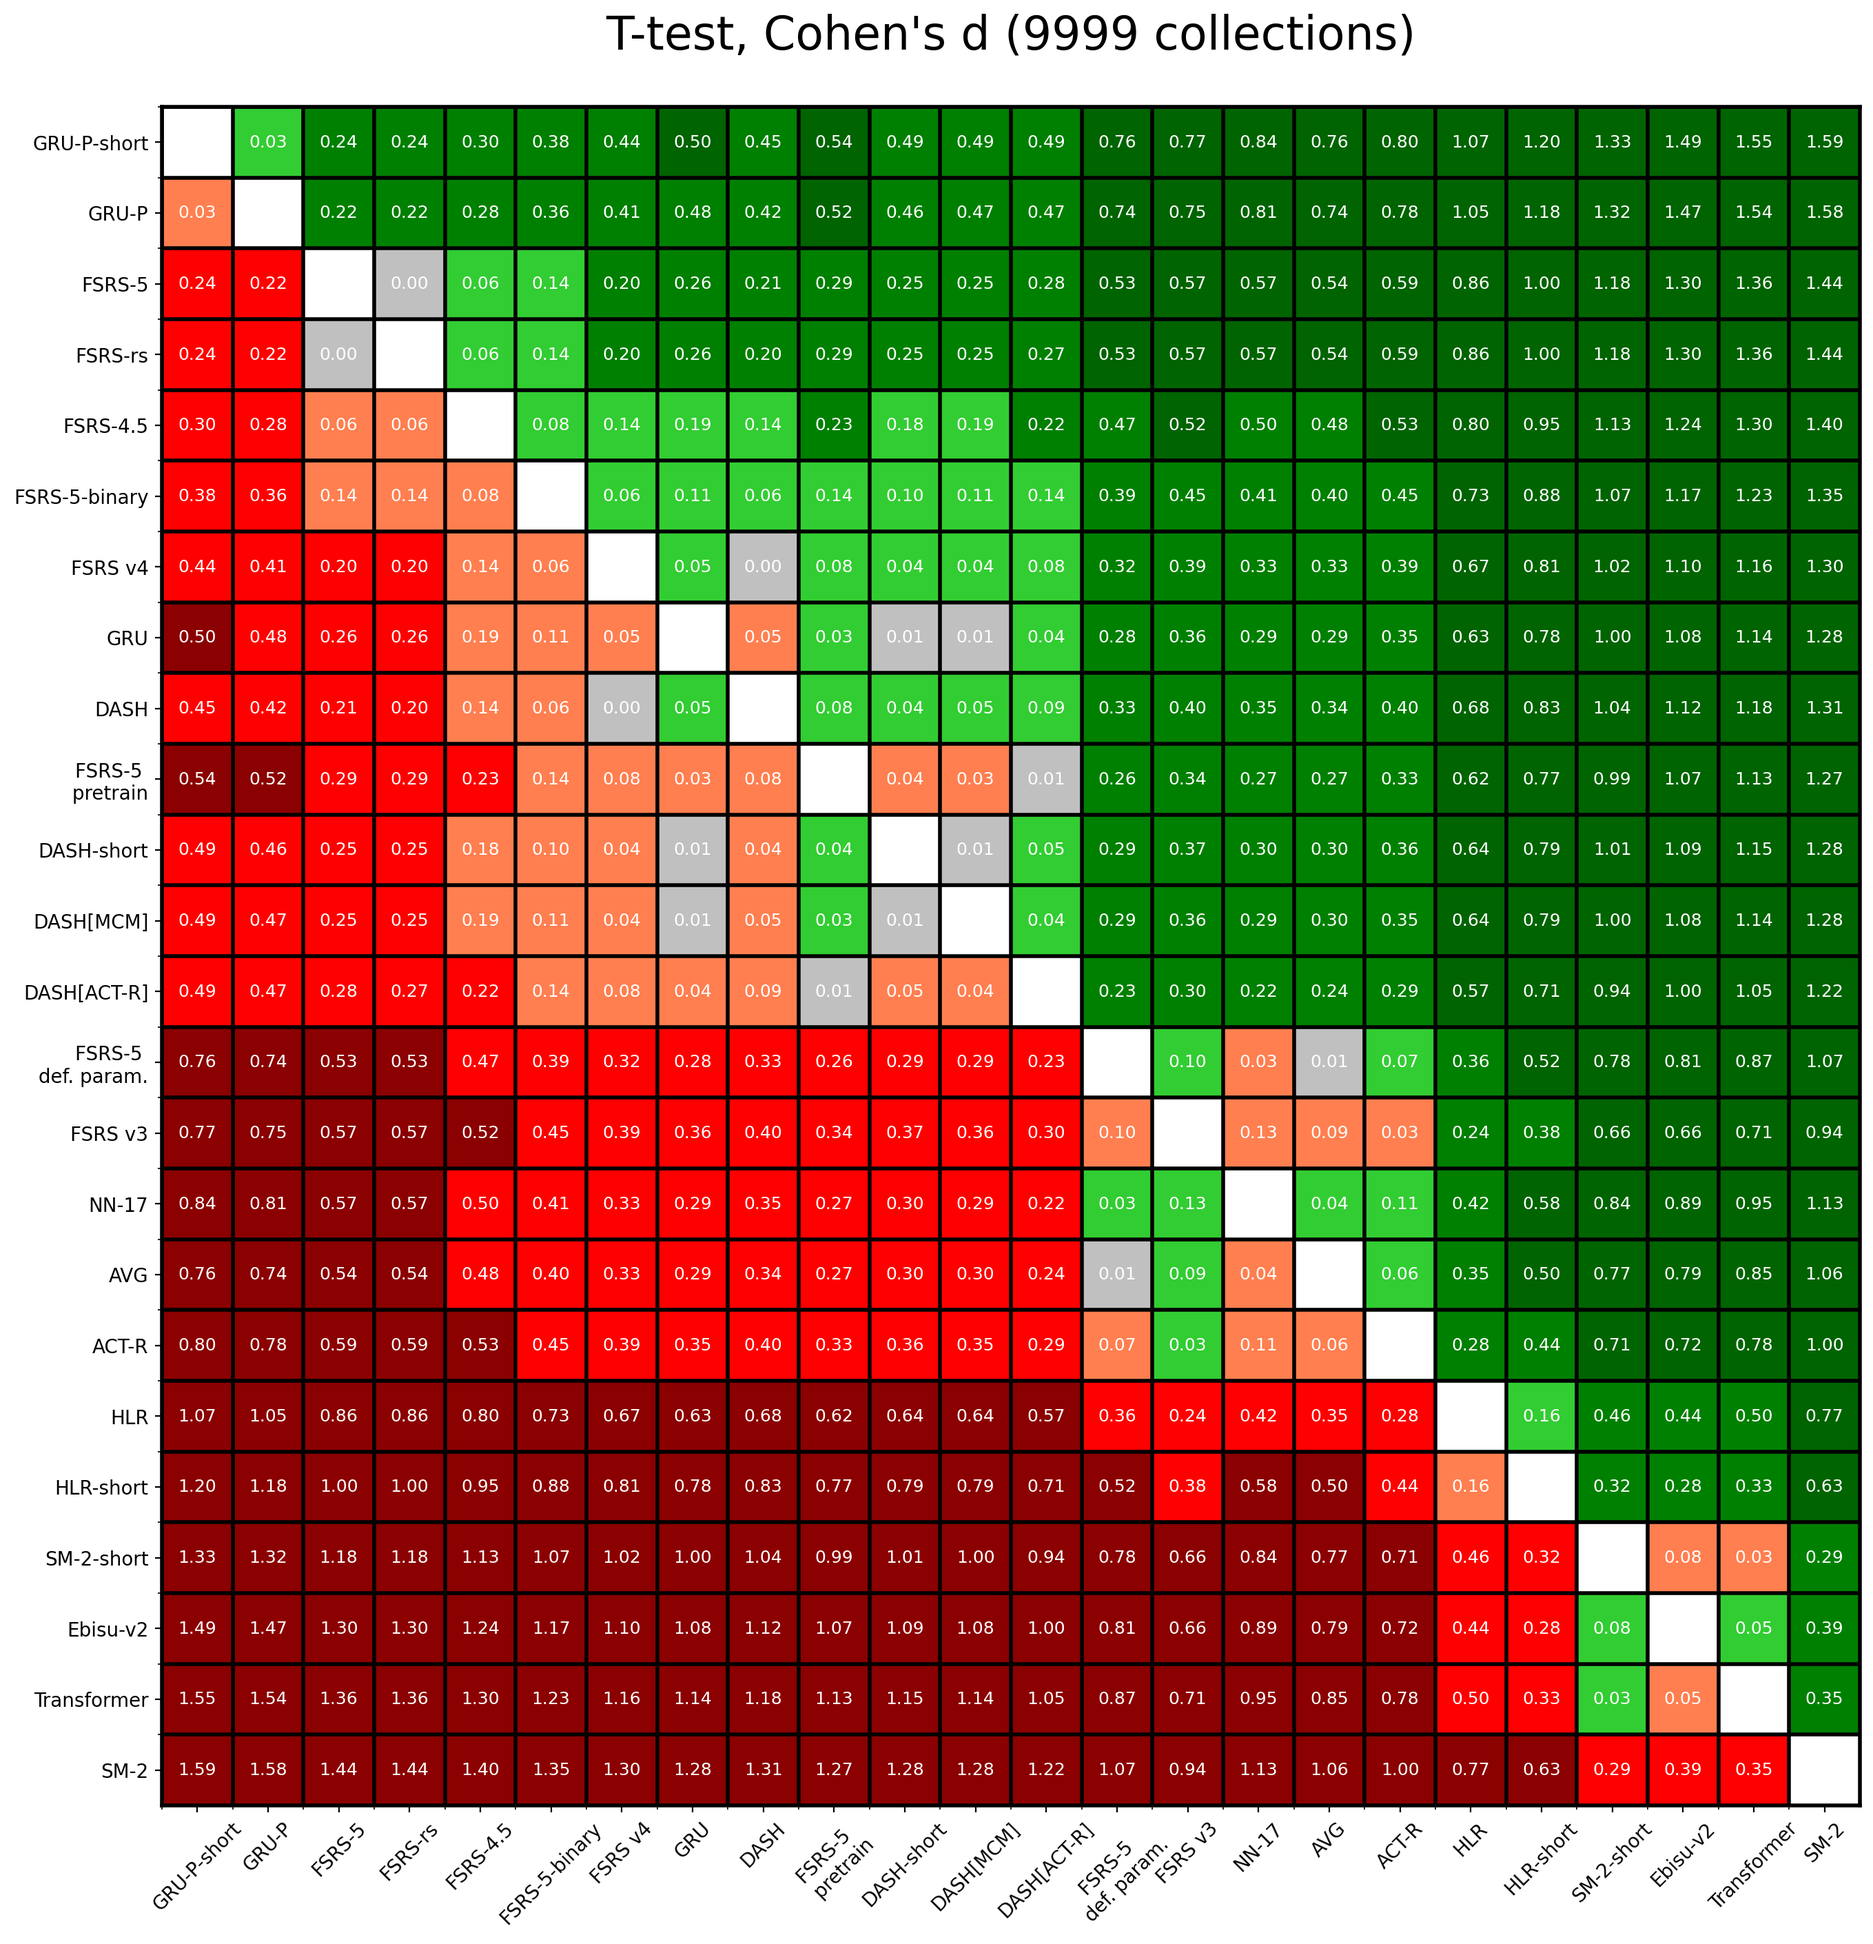
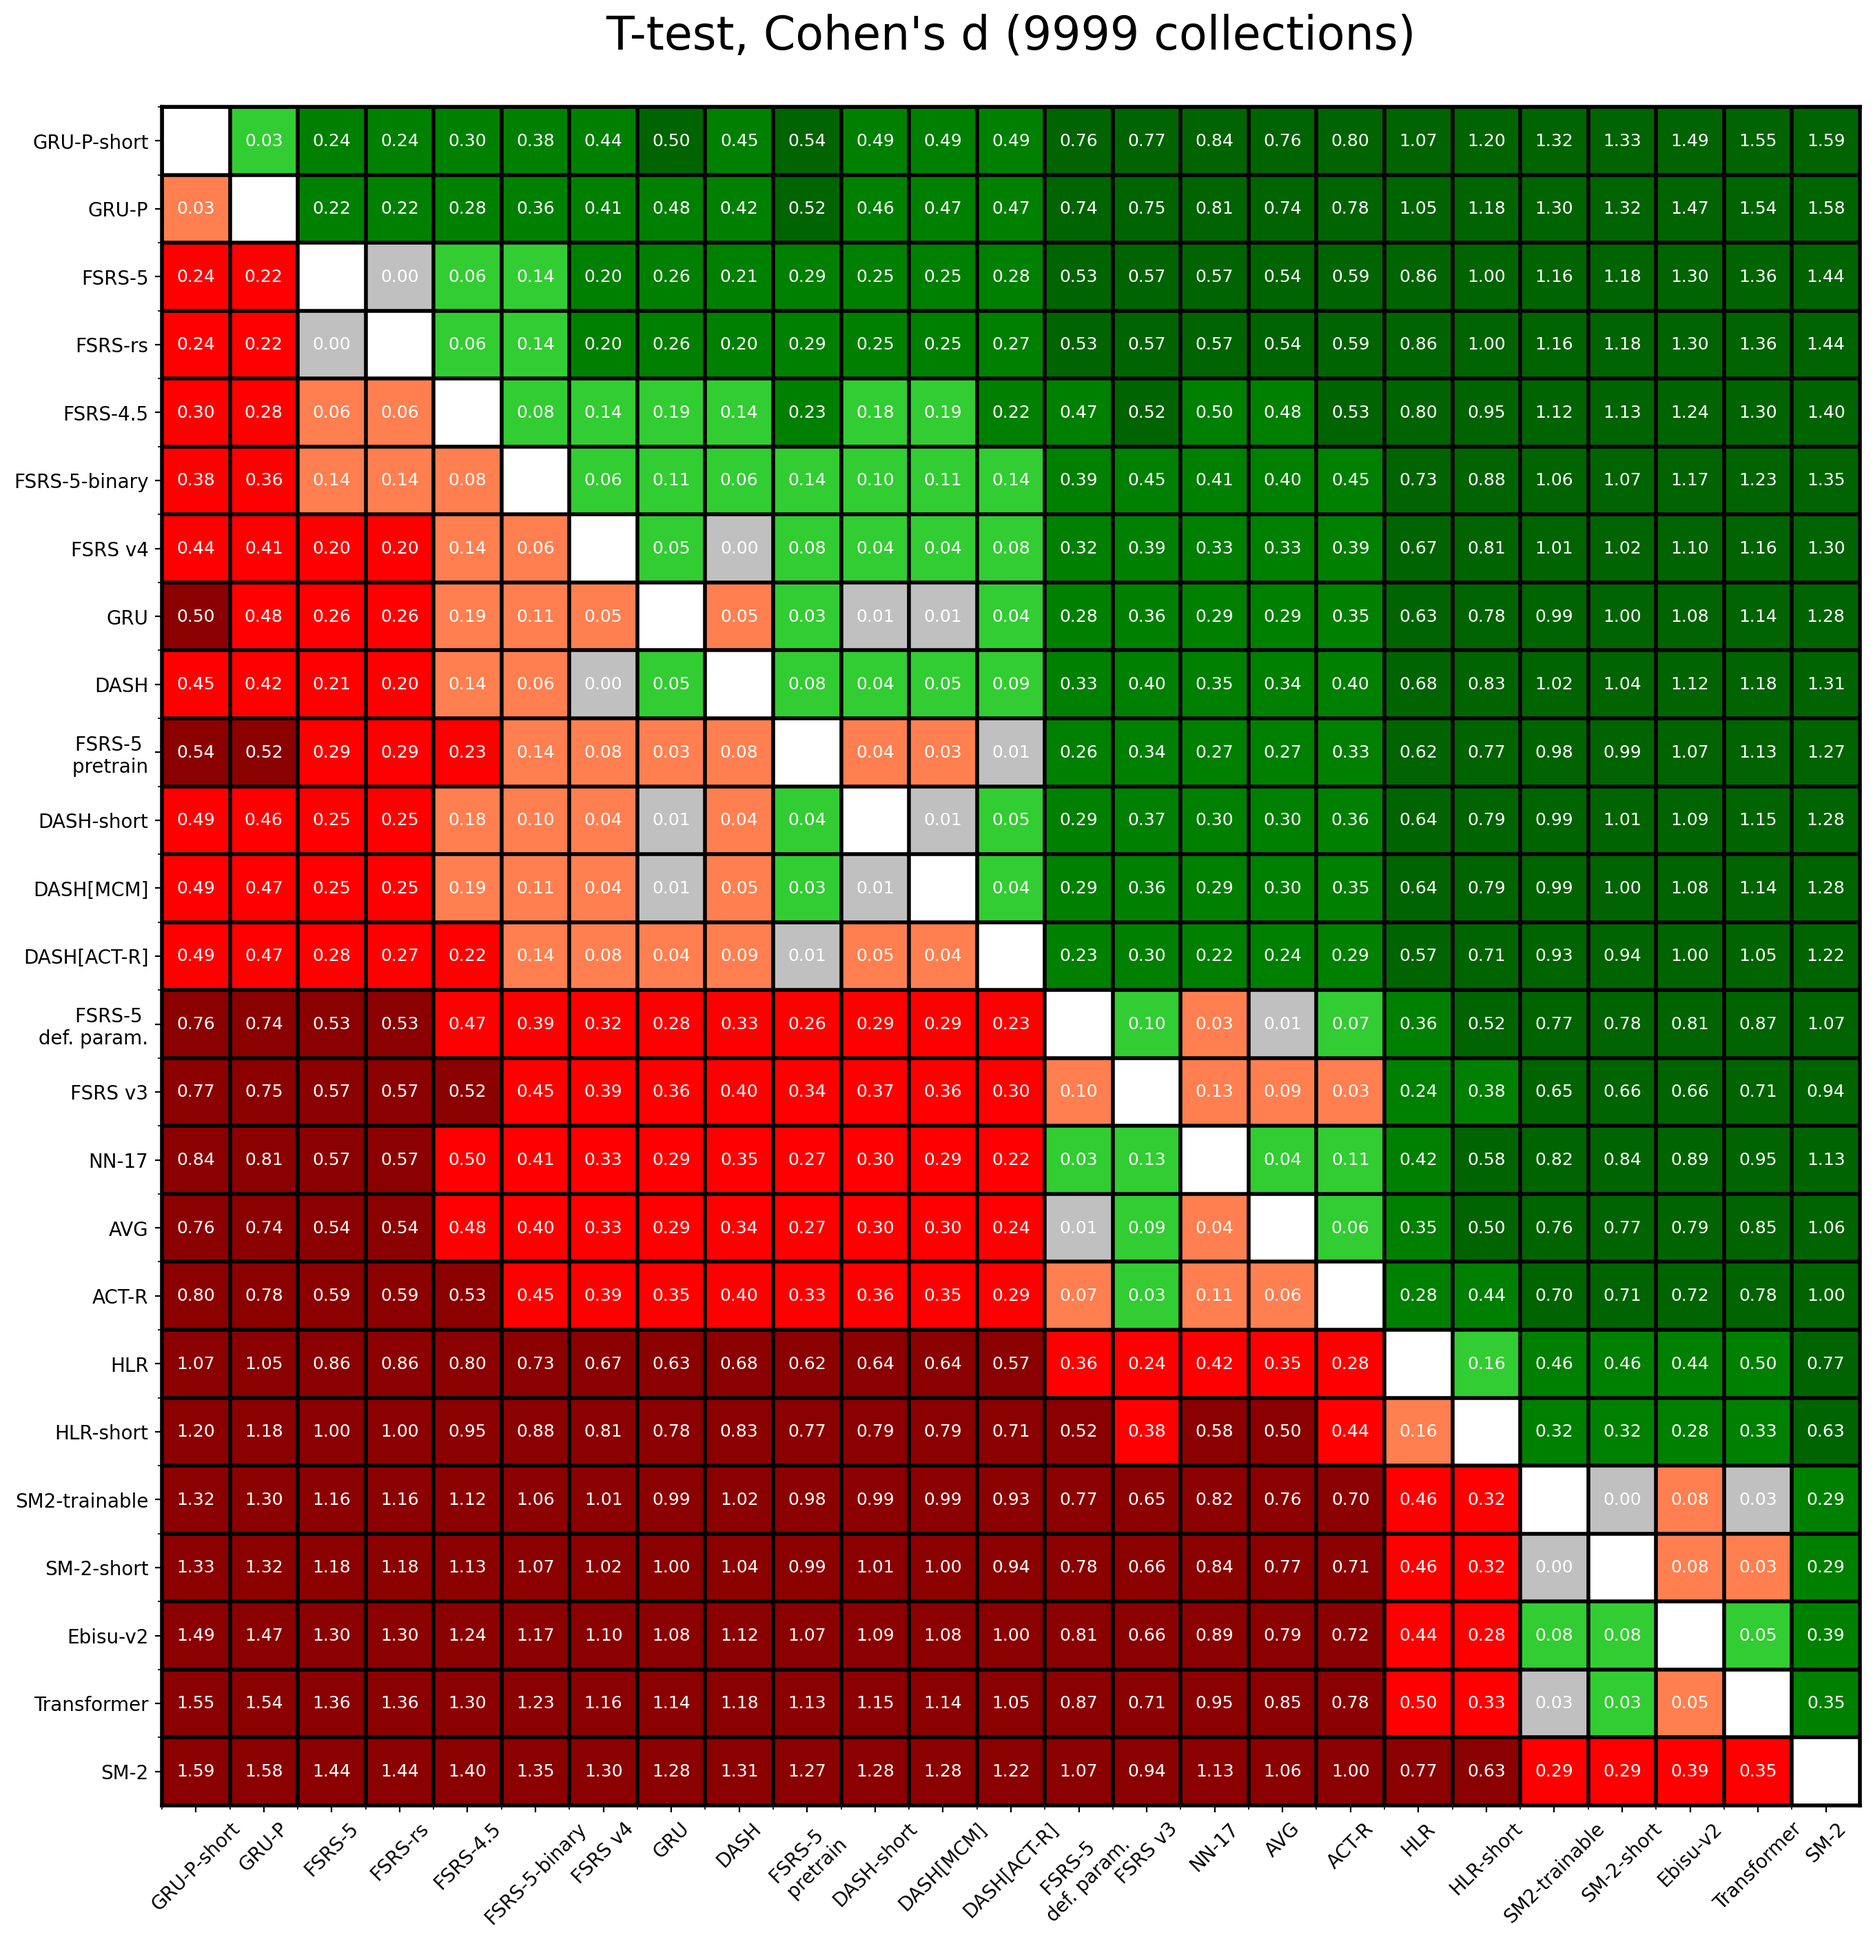
add SM-2-trainable to stats

diff --git a/evaluate.py b/evaluate.py
@@ -109,7 +109,8 @@ if __name__ == "__main__":
             ("ACT-R", 5),
             ("AVG", 0),
             ("HLR", 3),
-            ("HLR-short", 0),
+            ("HLR-short", 3),
+            ("SM2-trainable", 6),
             ("SM2-short", 0),
             ("SM2", 0),
             ("Ebisu-v2", 0),

diff --git a/significance_table.py b/significance_table.py
@@ -86,6 +86,7 @@ if __name__ == "__main__":
         "ACT-R",
         "HLR",
         "HLR-short",
+        "SM2-trainable",
         "SM2-short",
         "Ebisu-v2",
         "Transformer",

diff --git a/superiority.py b/superiority.py
@@ -34,6 +34,7 @@ if __name__ == "__main__":
         "ACT-R",
         "HLR",
         "HLR-short",
+        "SM2-trainable",
         "SM2-short",
         "Ebisu-v2",
         "Transformer",

diff --git a/README.md b/README.md
@@ -45,6 +45,7 @@ We use three metrics in the SRS benchmark to evaluate how well these algorithms 
 - HLR: the model proposed by Duolingo. Its full name is Half-Life Regression. For further information, please refer to the [this paper](https://github.com/duolingo/halflife-regression).
 - Transformer: a type of neural network that has gained popularity in recent years due to its superior performance in natural language processing. ChatGPT is based on this architecture. Both GRU and Transformer use the same power forgetting curve as FSRS-4.5 and FSRS-5 to make the comparison more fair.
 - SM-2: one of the early algorithms used by SuperMemo, the first spaced repetition software. It was developed more than 30 years ago, and it's still popular today. [Anki's default algorithm is based on SM-2](https://faqs.ankiweb.net/what-spaced-repetition-algorithm.html), [Mnemosyne](https://mnemosyne-proj.org/principles.php) also uses it. This algorithm does not predict the probability of recall natively; therefore, for the sake of the benchmark, the output was modified based on some assumptions about the forgetting curve.
+  - SM-2-trainable: a variant of SM-2 where the parameters are trainable.
 - NN-17: a neural network approximation of [SM-17](https://supermemo.guru/wiki/Algorithm_SM-17). It has a comparable number of parameters, and according to our estimates, it performs similarly to SM-17.
 - Ebisu v2: [an algorithm that uses Bayesian statistics](https://fasiha.github.io/ebisu/) to update its estimate of memory half-life after every review.
 - AVG: an "algorithm" that outputs a constant equal to the user's average retention. Has no practical applications and is intended only to serve as a baseline.
@@ -86,6 +87,7 @@ The following tables present the means and the 99% confidence intervals. The bes
 | AVG | 0 | 0.363±0.0090 | 0.088±0.0025 | 0.508±0.0046 |
 | HLR | 3 | 0.41±0.012 | 0.105±0.0030 | 0.633±0.0050 |
 | HLR-short | 3 | 0.44±0.013 | 0.116±0.0036 | 0.615±0.0062 |
+| SM2-trainable | 6 | 0.44±0.012 | 0.119±0.0033 | 0.599±0.0050 |
 | SM-2-short | 0 | 0.51±0.015 | 0.128±0.0038 | 0.593±0.0064 |
 | SM-2 | 0 | 0.55±0.017 | 0.148±0.0041 | 0.600±0.0051 |
 | Ebisu-v2 | 0 | 0.46±0.012 | 0.158±0.0038 | 0.594±0.0050 |
@@ -117,6 +119,7 @@ The following tables present the means and the 99% confidence intervals. The bes
 | HLR-short | 3 | 0.493±0.0079 | 0.140±0.0021 | 0.611±0.0029 |
 | Ebisu-v2 | 0 | 0.499±0.0078 | 0.163±0.0021 | 0.605±0.0026 |
 | Transformer | 127 | 0.468±0.0059 | 0.167±0.0022 | 0.531±0.0030 |
+| SM2-trainable | 6 | 0.58±0.012 | 0.170±0.0028 | 0.597±0.0025 |
 | SM-2-short | 0 | 0.65±0.015 | 0.170±0.0028 | 0.590±0.0027 |
 | SM-2 | 0 | 0.72±0.017 | 0.203±0.0030 | 0.603±0.0025 |
 
